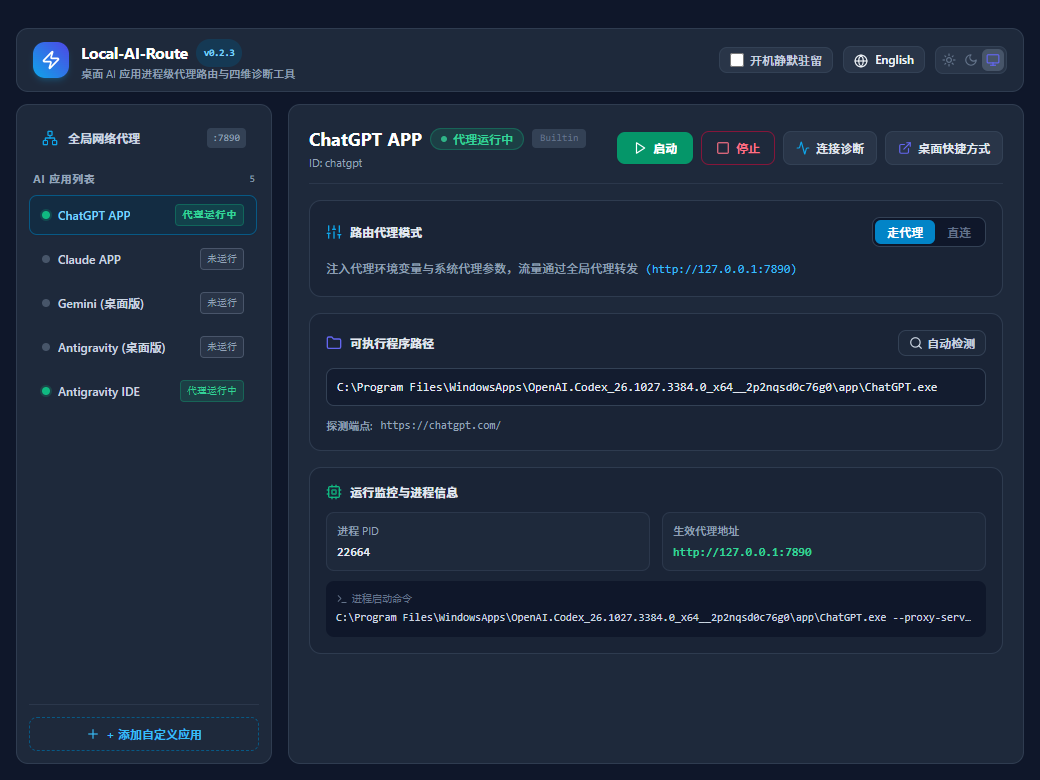
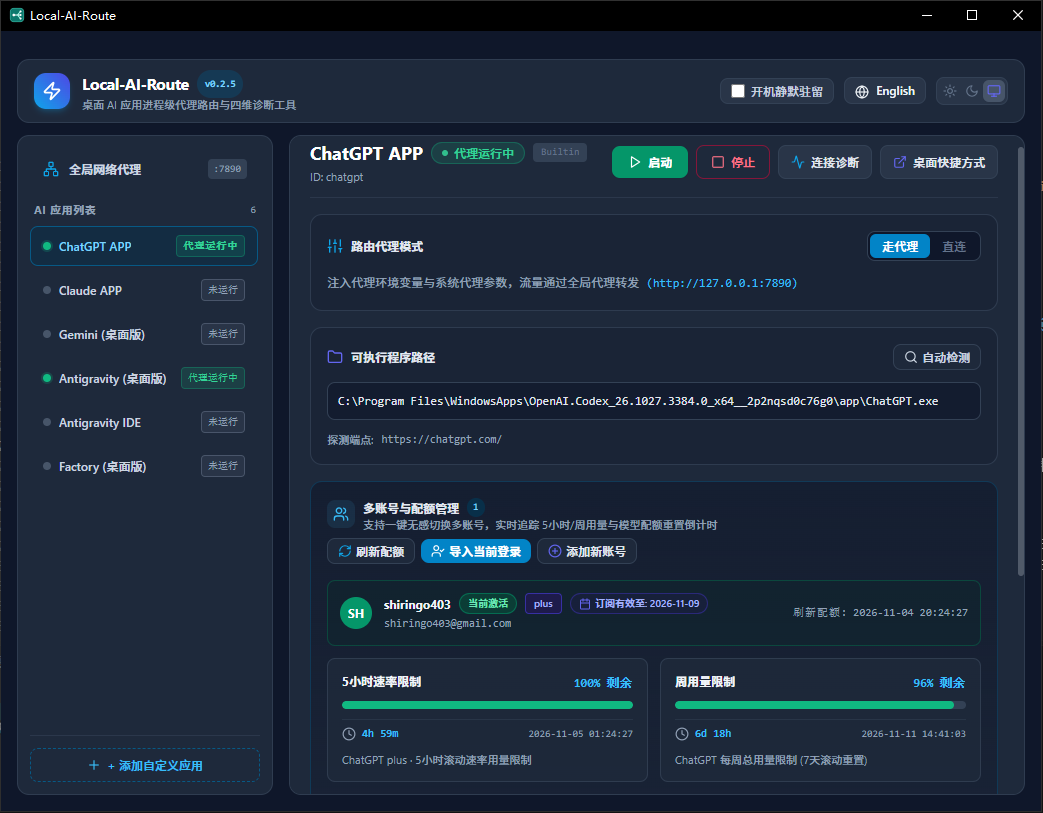
docs: 更新预览图与README文档

diff --git a/README.md b/README.md
@@ -15,14 +15,14 @@
   <img src="https://img.shields.io/badge/License-MIT-yellow.svg?style=flat-square" alt="MIT License" />
 </p>
 
-**Local-AI-Route** 是一款专为桌面 AI 应用打造的轻量级、免全局 TUN、免改系统代理的**进程级本地代理启动与管理工具**。开箱**原生深度适配**：
+**Local-AI-Route** 是一款专为桌面 AI 应用打造的轻量级、免全局 TUN、免改系统代理的**进程级本地代理启动与多账号管理工具**。开箱**原生深度适配**：
 
 - 🤖 **ChatGPT**（兼容 Windows 商店/独立安装包、macOS App Bundle、Linux 桌面客户端）
 - 🧠 **Claude**（兼容 Windows MSIX/Squirrel、macOS App Bundle、Linux 桌面端）
 - ✨ **Gemini 桌面版**（兼容 Windows Squirrel、macOS App Bundle、Linux 桌面端）
 - 🌌 **Antigravity 桌面版**
 - ⚡ **Antigravity IDE**（精确区分注册表与应用标识，专项保障 LSP 子进程代理继承）
-- 🏭 **Factory (桌面版) / Factory Droid**（兼容 Windows 安装包/Squirrel/CLI `droid`、macOS App Bundle、Linux 桌面端与二进制）
+- 🏭 **Factory 桌面版**（兼容 Windows 安装包/Squirrel/CLI `droid`、macOS App Bundle、Linux 桌面端与二进制）
 - 🧩 **自定义扩展**：一键添加任意 Chromium / Electron 类桌面 AI 应用（如 Cursor、Windsurf 等）
 
 > [!NOTE]
@@ -38,11 +38,10 @@
 ## 核心特性
 
 - 🎯 **免全局 TUN / 免改系统代理**：纯进程级网络接管，只让指定 AI 应用走代理，内网 VPN、局域网访问与日常应用完全不受干扰。
-- 🤖 **深度适配主流桌面 AI 应用**：开箱支持 ChatGPT、Claude、Gemini 桌面版、Antigravity 桌面版、Antigravity IDE 与 Factory (桌面版)，并支持一键添加任意 Chromium / Electron 应用（如 Cursor、Windsurf）。
-- 🎛 **多应用并发与独立分流**：Master-Detail 左右分栏紧凑布局，彻底消除长滚动条；支持悬浮快捷启停与各应用独立「走代理 / 直连」分流；全局代理独立收口，支持端口一键扫描与 `NO_PROXY` 规则。
+- 🤖 **深度适配主流桌面 AI 应用**：开箱支持 ChatGPT、Claude、Gemini 桌面版、Antigravity 桌面版、Antigravity IDE 与 Factory 桌面版，并支持一键添加任意 Chromium / Electron 应用（如 Cursor、Windsurf）。
 - 🔄 **智能状态感知与安全重启**：实时感知运行状态、直连冲突与代理端口变更；优先发送窗口平滑退出信号，保障工作区内容安全。
 - 🩺 **四维立体连接诊断**：包含代理隧道可达性、命令行启动参数、LSP 子进程环境继承及内核级 TCP 连接快照，支持一键隐私脱敏导出。
-- 👥 **多账号管理与实时配额监控**：原生适配 Antigravity、ChatGPT、Claude Desktop 以及 Factory (桌面版) / Droid，支持一键免冲突账号切换、进程安全重启、AES-256-GCM / DPAPI 凭据安全解密以及会话令牌有效期与 5 小时/7 天/30 天配额与重置倒计时精准监控。
+- 👥 **多账号管理与实时配额监控**：原生适配 Antigravity、ChatGPT、Claude Desktop 以及 Factory 桌面版，支持一键免冲突账号切换、进程安全重启、AES-256-GCM / DPAPI 凭据安全解密以及会话令牌有效期与 5 小时/7 天/30 天配额与重置倒计时精准监控。
 - 🚀 **极轻驻留与桌面快捷启动**：支持生成带原应用图标的桌面快捷方式，支持关闭至托盘与开机静默驻留，日常内存占用仅约 20MB。
 - 📦 **绿色便携与现代双语交互**：自动识别 `data/` 目录便携模式，支持中英双语即时切换与浅色/深色主题。
 
@@ -187,7 +186,7 @@ flowchart TD
   - **DPAPI + AES-256-GCM 安全提取**：Claude 桌面端将 OAuth 凭据以 Chromium v10 格式加密保存在 `%APPDATA%\Claude\config.json`（键 `oauth:tokenCacheV2`）。引擎利用 Windows DPAPI（`CryptUnprotectData`）安全解密 `Local State` 中的 AES 主密钥，随后通过 AES-256-GCM 还原明文 OAuth 访问令牌。
   - **Anthropic OAuth 配额与倒计时**：直连 `api.anthropic.com/api/oauth/usage`（携带 `anthropic-beta: oauth-2025-04-20`），精准获取 5 小时消息配额窗口、当前已消耗比例及精确到秒的重置倒计时。
   - **会话持久化与全新登录重置**：切换账号时完整持久化 `Network/Cookies` 数据库；同时提供“准备新登录”功能，一键归档当前活跃会话并重置为干净登录态，方便绑定新账号。
-- **Factory Desktop / Droid AES-256-GCM 凭证解密与三维滚动配额体系**：
+- **Factory Desktop AES-256-GCM 凭证解密与三维滚动配额体系**：
   - **原子无损凭证切换**：基于 `~/.factory` 凭证包（`auth.v2.file`、`auth.v2.key`、`auth.encrypted`），通过 AES-256-GCM 算法安全加解密，并与 Windows 凭据管理器（`Factory CLI/auth-encryption-key`）保持深度同步。
   - **JWT 身份提取与令牌倒计时**：纯本地离线解析 WorkOS/Factory OAuth JWT，提取登录邮箱、用户 ID、订阅套餐（Pro / Plus / Max / Team / Enterprise）及精确的会话令牌过期倒计时与重置时间。
   - **三级滚动速率限制窗口**：原生感知 Factory 5 小时滚动速率窗口、7 天用量限制（超额自动降级至免费 Droid Core 模型池）与 30 天月度计费周期，并支持探测 Factory Analytics API 获取额度详情。
